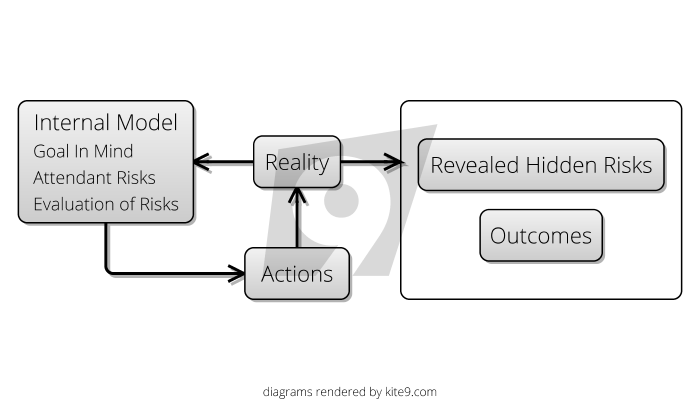
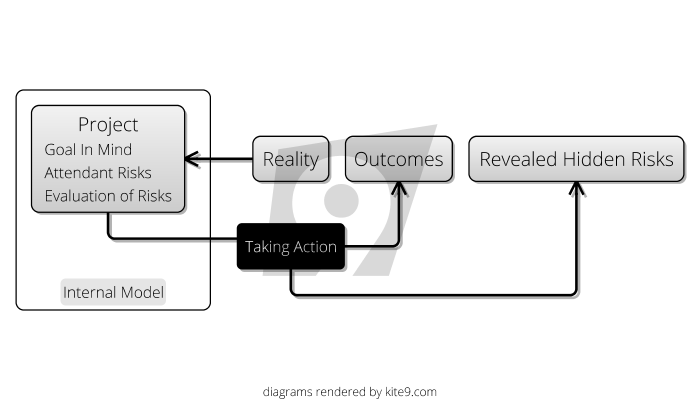
Edits

Changed region(s): [[0.0, 0.21, 0.99, 0.78]]

diff --git a/introduction/Meeting-Reality.md b/introduction/Meeting-Reality.md
@@ -2,17 +2,57 @@ In this section, we will look at how exposing your [Internal Model](Internal-Mod
 
 ## Revisiting the Model
 
-In the [Introduction](Introduction), we looked at a basic model for how **Reality** and our **Internal Model** interacted with each other.   
+In the [Introduction](Introduction), we looked at a basic model for how **Reality** and our **Internal Model** interacted with each other:  we take action based on out [Internal Model](Internal-Model) of **Reality**, hoping to **change reality** with some positive outcome.
 
-And, in [Development Process](Development-Process) we looked at how we can meet with reality in different forms:  Analysis, Testing, Integration and so on, and saw how the model could work in each stage.
+And, in [Development Process](Development-Process) we looked at how we can meet with reality in different forms:  Analysis, Testing, Integration and so on, and saw how the model could work in each stage of a project.
 
 Finally, in [Software Project Scenario](Software-Project-Scenario) we looked at how we could use this model on a day-to-day basis to inform what we should do next.  
 
-So, it should be no surprise to see that there is a _recursive_ nature about this:  the **actions** we perform each day have consequences:  they **expose new [Hidden Risks](Attendant-Risk)**, which inform our [Internal Model](Internal-Model), and at the same time, they change reality in some way (otherwise, what would be the point of doing them?)
+So, it should be no surprise to see that there is a _recursive_ nature about this:  
 
-So, let's see how this kind of recursion looks on our model:
+1.  The **actions we take** each day have consequences:  they **expose new [Hidden Risks](Attendant-Risk)**, which inform our [Internal Model](Internal-Model), and at the same time, they change reality in some way (otherwise, what would be the point of doing them?)
+2.  The actions we take towards achieving a [Goal In Mind](Goal-In-Mind) each have their _own_ [Goal In Mind](Goal-In-Mind).  And because of this, when we consider an action, we have to consider and evaluate the new [Attendant Risks](Attendant-Risk) of that action.   That is, there are many ways to achieving a goal, and these different ways expose different [Attendant Risks](Attendant-Risk).
+
+So, let's see how this kind of recursion looks on our model. Note that here, I am showing _just one possible action_, in reality, you'll have choices.
 
 ![Reality 2](images/reality2.png).
+
+Hopefully, if you've read along so far, this model shouldn't be too hard to understand.  But, how is it helpful?  
+
+### "Navigating the Risk Landscape"
+
+So, we often have multiple ways of achieving a [Goal In Mind](Goal-In-Mind).  What's the best way?  I would argue that the best way is the one which accrues the _least risk_ to get it done:  each action you take in trying to achieve the overall [Goal In Mind](Goal-In-Mind) will have it's [Attendant Risks](Attendant-Risk), and it's the experience you bring to bear on these that will help you navigate through them smoothly.
+
+Sometimes, in solving one problem, you can end up somewhere _worse_:  the actions you take to solve a higher-level [Attendant Risk](Attendant-Risk) will leave you with a worse [Attendant Risks](Attendant-Risk).  Almost certainly, this will have been a [Hidden Risk](Attendant-Risk) when you embarked on the action, otherwise you'd not have chosen it.  
+
+#### A Quick Example
+
+On a recent project in a bank, we had a requirement to store a modest amount of data and we needed to be able to retrieve it fast.  The developer (without a lot of analysis) chose to use [MongoDB](https://www.mongodb.com) for this.  At the time, others pointed out that other teams in the bank had had lots of difficulty deploying MongoDB internally, due to licensing issues and other factors internal to the bank.
+
+Other options were available, but the developer chose MongoDB because of their _existing familiarity_ with it:   therefore, they felt that the [Hidden Risks](Attendant-Risk) of MongoDB were _lower_ than the other options, and disregarded the opinions of the others.
+
+The data storage [Attendant Risk](Attendant-Risk) was mitigated easily with MongoDB.  However, the new [Attendant Risk](Attendant-Risk) of licensing bureacracy eventually proved too great, and MongoDB had to be abandoned after much investment.
+
+This is not a criticism of MongoDB: it's simply a demonstration that sometimes, the cure is worse than the disease.  Successful projects are _always_ trying to _reduce_ [Attendant Risks](Attendant-Risk).  
+
+That's what "Navigating the Risk Landscape" means.
+
+### YAGNI / WAGNI
+
+As a flavour of what's to come, let's look at [YAGNI](https://www.martinfowler.com/bliki/Yagni.html), an acronym for You Aren't Gonna Need It.   As Martin Fowler says:
+
+> Yagni originally is an acronym that stands for "You Aren't Gonna Need It". It is a mantra from ExtremeProgramming that's often used generally in agile software teams. It's a statement that some capability we presume our software needs in the future should not be built now because "you aren't gonna need it".
+> This principle was first discussed and fleshed out on [Ward's Wiki](http://wiki.c2.com/?YouArentGonnaNeedIt)
+
+The idea makes sense:  if you take on extra work that you don't need, _of course_ you'll be accreting [Attendant Risks](Attendant-Risk).
+
+But, there is always the opposite opinion:  [YouAreGonnaNeedIt](http://wiki.c2.com/?YouAreGonnaNeedIt).  As a simple example, we often add logging comments in our code as we write it, though following YAGNI strictly says we should leave it out.
+
+Now, we can say:  do the work if it mitigates your [Attendant Risks](Attendant-Risk).  Logging statements are _good_, because otherwise, you're adding risk that in production, no one will be able to understand _how the software went wrong_.
+
+### Do The Simplest Possible Thing
+
+
 
 ## Iterations
 
@@ -27,6 +67,10 @@ In the [Development Process](Development-Process), we had four steps between a f
 How _fast_ should we go round this loop?  Is there a right answer?  The longer you leave your [goal in mind](Goal-In-Mind), the longer it'll be before you find out how it really stacks up against reality.  
 
 Testing your [goals in mind](Goal-In-Mind) early and safely is how you'll manage risk effectively.  
+
+Is this the same as [Continuous Delivery](https://devops.com/often-release-continuous-delivery/) (CD)?  Arguably, no:  although CD can mean multiple releases per day, it also introduces it's own risks:
+ - Do users get annoyed with the application changing all the time?
+ -  
 
 
 

diff --git a/introduction/Introduction.md b/introduction/Introduction.md
@@ -44,7 +44,7 @@ Our model is forced into contact with reality, and the model changes.
 
 ![Reality](images/reality.png)
 
-If we had a good model, and took the right actions, we should see positive consequences.  If we failed to mitigate risks, or took inappropriate actions, we'll probably see negative actions.
+If we had a good model, and took the right actions, we should see positive outcomes.  If we failed to mitigate risks, or took inappropriate actions, we'll probably see negative outcomes.
 
 ## On To Software
 
